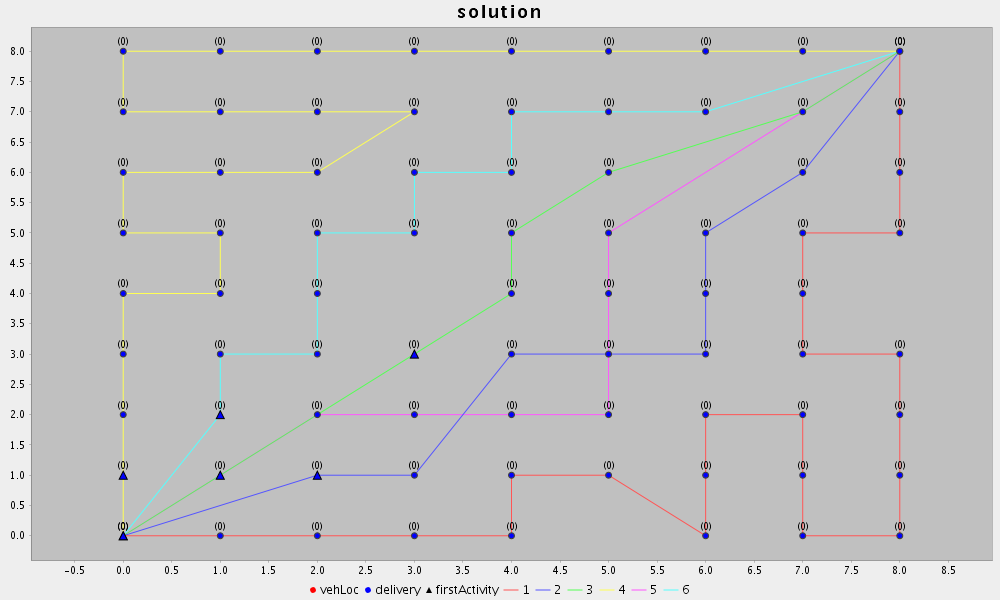
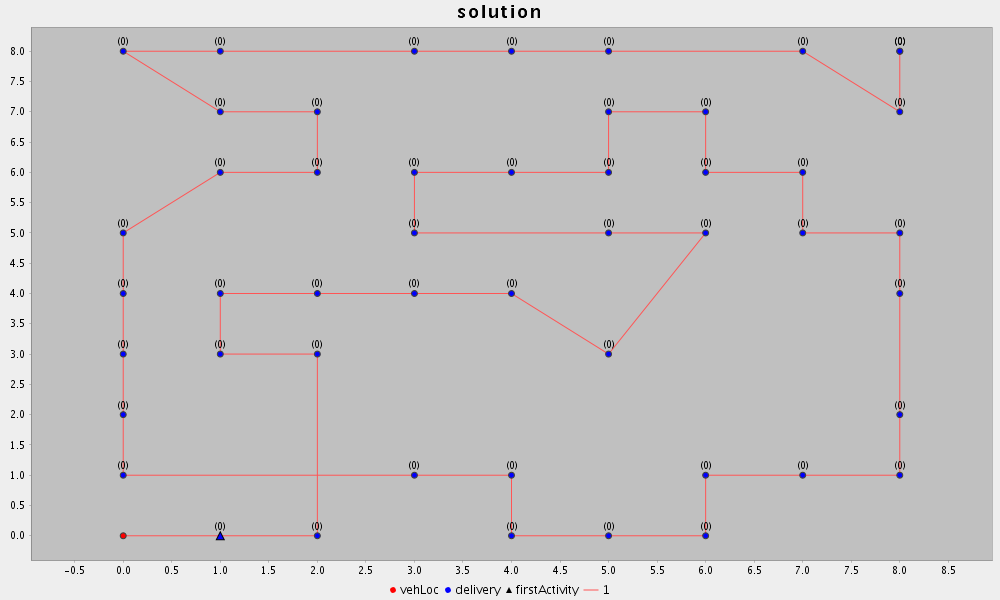
pre test

diff --git a/src/main/java/com/sf/vrp/Sandbox.java b/src/main/java/com/sf/vrp/Sandbox.java
@@ -9,8 +9,9 @@ import com.graphhopper.jsprit.core.algorithm.VehicleRoutingAlgorithm;
 import com.graphhopper.jsprit.core.algorithm.box.Jsprit;
 import com.graphhopper.jsprit.core.problem.Location;
 import com.graphhopper.jsprit.core.problem.VehicleRoutingProblem;
+import com.graphhopper.jsprit.core.problem.VehicleRoutingProblem.FleetSize;
+import com.graphhopper.jsprit.core.problem.cost.VehicleRoutingTransportCosts;
 import com.graphhopper.jsprit.core.problem.job.Delivery;
-import com.graphhopper.jsprit.core.problem.job.Service;
 import com.graphhopper.jsprit.core.problem.solution.VehicleRoutingProblemSolution;
 import com.graphhopper.jsprit.core.problem.vehicle.VehicleImpl;
 import com.graphhopper.jsprit.core.problem.vehicle.VehicleType;
@@ -33,16 +34,21 @@ public class Sandbox
 					.newInstance("Vechicle#1")
 					.setStartLocation(Location.newInstance(0, 0))
 					.setEndLocation(Location.newInstance(DIM-1, DIM-1))
+//					.setReturnToDepot(false)
 					.setType(vechicleType)
 					.build();
 	
 //	Collection<Service> cargos = RandomCargosService.generateService(DIM, new Random().nextInt(DIM*DIM));
 	Collection<Delivery> cargos = RandomCargosService.generateCargos(DIM, new Random().nextInt(DIM*DIM));
 	
+	VehicleRoutingTransportCosts costMatrix = ManhattanCostMatrix.costMatrix(DIM);
+	
 	VehicleRoutingProblem problem = VehicleRoutingProblem.Builder
 							.newInstance()
                                             		.addVehicle(vehicle)
                                             		.addAllJobs(cargos)
+                                            		.setRoutingCost(costMatrix)
+                                            		.setFleetSize(FleetSize.FINITE)
                                             		.build();
 	
 	VehicleRoutingAlgorithm algorithm = Jsprit.createAlgorithm(problem);

diff --git a/src/main/java/com/sf/vrp/ManhattanCostMatrix.java b/src/main/java/com/sf/vrp/ManhattanCostMatrix.java
@@ -1,0 +1,33 @@
+package com.sf.vrp;
+
+import com.graphhopper.jsprit.core.problem.cost.VehicleRoutingTransportCosts;
+import com.graphhopper.jsprit.core.util.Coordinate;
+import com.graphhopper.jsprit.core.util.VehicleRoutingTransportCostsMatrix;
+
+public class ManhattanCostMatrix
+{
+    public static VehicleRoutingTransportCosts costMatrix(int dim)
+    {
+	VehicleRoutingTransportCostsMatrix.Builder builder = VehicleRoutingTransportCostsMatrix
+                                            		.Builder
+                                            		.newInstance(true);
+	for (int from = 0; from < dim*dim; from++)
+	{
+	    for (int to = 0; to < dim*dim; to++)
+	    {
+		builder.addTransportDistance(locationId(from, dim), locationId(to, dim), distance(from, to, dim));
+	    }
+	}
+	return builder.build();
+    }
+    
+    private static String locationId(int num, int dim)
+    {
+	return new Coordinate(num/dim, num%dim).toString();
+    }
+    
+    private static int distance(int from, int to, int dim)
+    {
+	return Math.abs(from/dim - to/dim) + Math.abs(from%dim - to%dim);
+    }
+}

diff --git a/src/main/java/com/sf/vrp/RandomCargosService.java b/src/main/java/com/sf/vrp/RandomCargosService.java
@@ -37,8 +37,15 @@ public class RandomCargosService
 	    deliveries.add(Delivery.Builder
 		    		.newInstance(UUID.randomUUID().toString())
 		    		.setLocation(Location.newInstance(point.getX(), point.getY()))
+		    		.setPriority(1)
 		    		.build());
 	}
+//    	Delivery dest = Delivery.Builder
+//                		.newInstance("Dest")
+//                		.setLocation(Location.newInstance(dim , dim ))
+//                		.setPriority(3)
+//                		.build();
+//	deliveries.add(dest);
 	return deliveries;
     }
     
